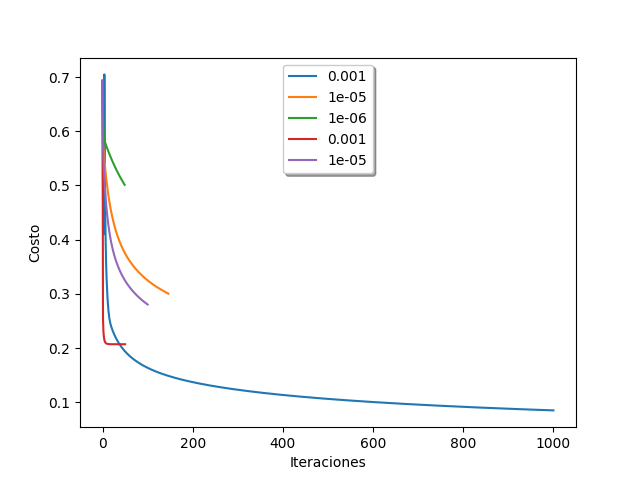
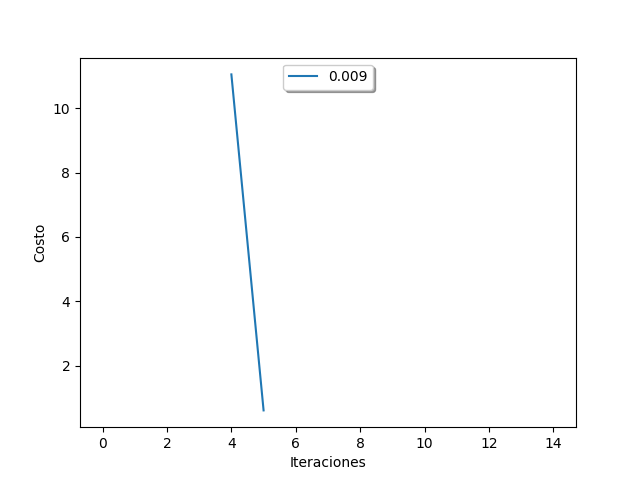
Modelos de USAC v1.0

diff --git a/src/templates/index.html b/src/templates/index.html
@@ -33,12 +33,14 @@
             <input type="submit" value="Cargar Imagen">
         </p>
     </form>
-    {% if filenames %}
-	    {% for filename in filenames %}
-		    <div>
-			    <img src="{{ url_for('display_image', filename=filename) }}">
-		    </div>
-	    {% endfor %}
-    {% endif %}
+    <div class="row">
+        {% if filenames %}
+	        {% for filename in filenames %}
+		        <div>
+			        <img src="{{ url_for('display_image', filename=filename) }}">
+		     </div>
+	        {% endfor %}
+        {% endif %}
+    </div>
 </body>
 </html>

diff --git a/src/Modelo.py b/src/Modelo.py
@@ -11,7 +11,7 @@ import pickle
 ONLY_SHOW = False #Veo si quiero mostrar una imagen del conjunto de datos
 
 # modelo => 1 : Landivar , 2 : Mariano, 3 : Marroquin, 4 : USAC  
-def entrenarModelos(uni):
+def entrenarModelos(uni, id,reg, alpha, lam, MAX_ITERATIONS, MIN_VALUE, STEP  ):
     id_archivo = ""
     if uni == 4:
         id_archivo = "USAC"
@@ -29,71 +29,22 @@ def entrenarModelos(uni):
     train_set_x = train_set_x_orig.reshape(train_set_x_orig.shape[0], -1).T
     test_set_x = test_set_x_orig.reshape(test_set_x_orig.shape[0], -1).T
 
-    #Vemos cómo queda ahora la estructura de una imagen
-    #(12288, 209) En este caso tiene 209 registros y cada registro tiene 12288 valores
-    #En el caso de las notas cada registro tenía solo 3 valores, que eran las 3 notas
-    #Por lo tanto, nuestro modelo va a tener 12288 + 1 Coeficientes, el + 1 es por B0
-    #print(train_set_x.shape)
-
     # Vean la diferencia de la conversion
     print('Original: ', train_set_x_orig.shape)
     print('Con reshape: ', train_set_x.shape)
-
-    #print('tamaño train_set_x_orig: ', len(train_set_x_orig))
-    #print('tamaño train_set_x: ', len(train_set_x))
-
-    #temp = train_set_x_orig.reshape(train_set_x_orig.shape[0], -1)
-    #print('Prueba: ', temp.shape)
-
-    #print('train_set_x')
-    #print(train_set_x)
-    #exit()
 
 
     # Definir los conjuntos de datos
     train_set = Data(train_set_x, train_set_y, 255)
     test_set = Data(test_set_x, test_set_y, 255)
 
-    # Se entrenan los modelos
-    #model1 = Model(train_set, test_set, reg=False, alpha=0.0001, lam=0)
-    #model1.training()
-
-    #model2 = Model(train_set, test_set, reg=True, alpha=0.01, lam=150) #Aquí también se puede ver sobre-ajuste
-    #model2 = Model(train_set, test_set, reg=True, alpha=0.01, lam=1) #Se puede ver en la gráfica que hay SOBRE-AJUSTE
-
-    #model2 = Model(train_set, test_set, reg=True, alpha=0.001, lam=300) #Se ajusta mejor con la regulariación de 300, pero se tarda más
-    
     # Modelo 1
-    model1 = Model(train_set, test_set, reg=False, alpha=0.001, lam=150, MAX_ITERATIONS=10000, MIN_VALUE=0.0, STEP=10) #Baja más quitandole la regularización
+    model1 = Model(train_set, test_set, reg, alpha, lam, MAX_ITERATIONS, MIN_VALUE, STEP) 
     model1.training()
-    guardarBitacora(model1, id_archivo, 1)
-    guardarModelo(model1, id_archivo, 1)
+    guardarBitacora(model1, id_archivo, id)
+    guardarModelo(model1, id_archivo, id)
 
-    # Modelo 2
-    model2 = Model(train_set, test_set, reg=True, alpha=0.00001, lam=20, MAX_ITERATIONS=100000, MIN_VALUE=0.3, STEP=50)
-    model2.training()
-    guardarBitacora(model2, id_archivo, 2)
-    guardarModelo(model1, id_archivo, 2)
-
-    # Modelo 3
-    model3 = Model(train_set, test_set, reg=False, alpha=0.000001, lam=100, MAX_ITERATIONS=100000, MIN_VALUE=0.5, STEP=100)
-    model3.training()
-    guardarBitacora(model3, id_archivo, 3)
-    guardarModelo(model1, id_archivo, 3)
-
-    # Modelo 4
-    model4 = Model(train_set, test_set, reg=False, alpha=0.001, lam=10, MAX_ITERATIONS=100000, MIN_VALUE=0.0, STEP=200)
-    model4.training()
-    guardarBitacora(model4, id_archivo, 4)
-    guardarModelo(model1, id_archivo, 4)
-
-    # Modelo 5
-    model5 = Model(train_set, test_set, reg=True, alpha=0.001, lam=50, MAX_ITERATIONS=100000, MIN_VALUE=0.0, STEP= 5)
-    model5.training()
-    guardarBitacora(model5, id_archivo, 5)
-    guardarModelo(model1, id_archivo, 5)
-
-    Plotter.show_Model([model1, model2, model3, model4, model5], "imagen_" + id_archivo)
+    Plotter.show_Model([model1], "imagen_" + id_archivo)
 
 # modelo => 1 : Landivar , 2 : Mariano, 3 : Marroquin, 4 : USAC  
 def guardarBitacora(modelo, id_archivo, id):
@@ -116,17 +67,9 @@ def guardarModelo(modelo, id_archivo, id ):
     ruta = "../modelo" + id_archivo + "/modelo_" + str(id) + ".ml"
     pickle.dump(modelo, open(ruta, "wb"))
 
-class Objeto:
-    def __init__(self, atrib1, atrib2):
-        self.atrib1 = atrib1
-        self.atrib2 = atrib2
-    def display(self):
-        print("ATRIB 1 ", self.atrib1, " ATRIB 2: ", self.atrib2)
-
-def pruebaPickle(id_archivo, id):
-    me = Objeto("Christopher", 34)
-    ruta = "../modelo" + id_archivo + "/modelo_" + str(id) + ".ml"
-    print(ruta)
-    pickle.dump(me, open(ruta, "wb"))
-
-entrenarModelos(4)
+#Entrenamiento USAC
+#entrenarModelos(4, 1, reg=False, alpha=0.001, lam=150, MAX_ITERATIONS=10000, MIN_VALUE=0.0, STEP=10)
+#entrenarModelos(4, 2, reg=True, alpha=0.00001, lam=20, MAX_ITERATIONS=10000, MIN_VALUE=0.3, STEP=10)
+#entrenarModelos(4, 3, reg=False, alpha=0.0001, lam=20, MAX_ITERATIONS=15000, MIN_VALUE=0.1, STEP=30)
+#entrenarModelos(4, 4, reg=False, alpha=0.0009, lam=20, MAX_ITERATIONS=16000, MIN_VALUE=0.2, STEP=10)
+entrenarModelos(4, 5, reg=True, alpha=0.009, lam=3, MAX_ITERATIONS=15000, MIN_VALUE=0.4, STEP=30)

diff --git a/src/app.py b/src/app.py
@@ -1,13 +1,28 @@
 from flask import Flask, render_template, request, jsonify, session, redirect, url_for
 from flask_session import Session
 import json
+import shutil
 import os
 
+UPLOAD_FOLDER = 'static/uploads/'
+
 app = Flask(__name__)
+app.secret_key = "secret key"
+app.config['UPLOAD_FOLDER'] = UPLOAD_FOLDER
 SESSION_TYPE = 'filesystem'
 app.config.from_object(__name__)
 Session(app)
 
+
+def borrarCarpeta():
+    folder = "static/uploads"
+    for filename in os.listdir(folder):
+        file_path = os.path.join(folder, filename)
+        try:
+            if os.path.isfile(file_path) or os.path.islink(file_path):
+                os.unlink(file_path)
+        except Exception as e:
+            print('Failed to delete %s. Reason: %s' % (file_path, e))
 
 @app.route('/status')
 def status():
@@ -15,17 +30,18 @@ def status():
 
 @app.route('/imagenes', methods=['GET', 'POST'])
 def imagenes():
+    borrarCarpeta()
     files = request.files.getlist('files[]')
     file_names = []
     for file in files:
         file_names.append(file.filename)
-        file.save("../img_usuario/" + file.filename)
+        file.save(os.path.join(app.config['UPLOAD_FOLDER'], file.filename))
     return render_template('index.html', filenames=file_names)
 
 @app.route('/display/<filename>')
 def display_image(filename):
 	print('display_image filename: ' + filename)
-	return redirect(url_for("../img_usuario/", filename='uploads/' + filename), code=301)
+	return redirect(url_for('static', filename='uploads/' + filename), code=301)
 
 @app.route('/')
 def home_form():
